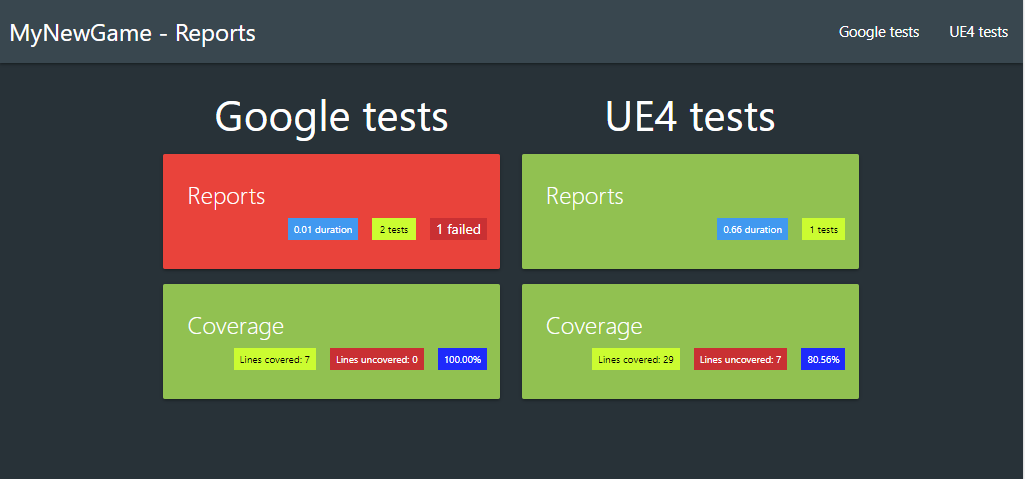
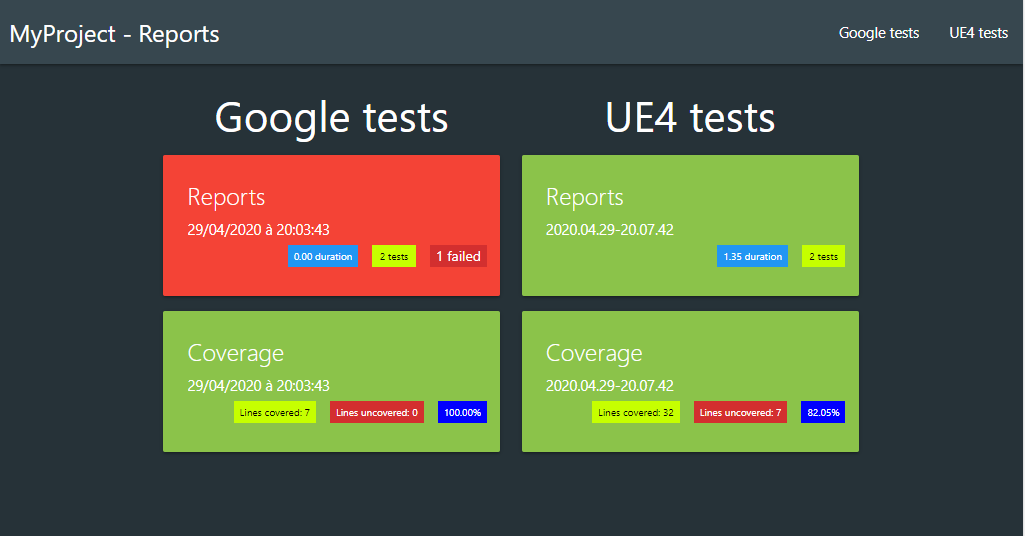
Improve style and docs

diff --git a/TestsReports/index.html b/TestsReports/index.html
@@ -40,6 +40,9 @@
             color: white;
             background-color: #2196f3;
         }
+        .createdAt {
+            margin-bottom: 5px !important;
+        }
 
     </style>
     <!--Let browser know website is optimized for mobile-->
@@ -172,7 +175,7 @@
                         $(`.${proj} .card.reports .badge.${field}`).addClass("hide");
                     }
                 }
-                if (data[proj]['createdAt']) {
+                if (data[proj] && data[proj]['createdAt']) {
                     let date = proj === 'gg' ? new Date(data[proj]['createdAt']).toLocaleString() : data[proj]['createdAt'];
                     $(`.${proj} .card.reports .createdAt`).removeClass("hide").text(date);
                 }

diff --git a/TestsReports/build-gg-reports.js b/TestsReports/build-gg-reports.js
@@ -16,7 +16,7 @@ const xunitViewer = require("xunit-viewer");
 const fs = require("fs");
 const path = require("path");
 const chalk = require("chalk");
-var parser = require("xml2json");
+const parser = require("xml2json");
 let globalReport = require("./get-global-report");
 
 const directory = "./reports/gg";

diff --git a/TestsReports/build-coverage.js b/TestsReports/build-coverage.js
@@ -13,9 +13,8 @@
 // limitations under the License.
 
 const fs = require("fs");
-const path = require("path");
 const chalk = require("chalk");
-var parser = require("xml2json");
+const parser = require("xml2json");
 const directory = "./coverage/";
 const globalReportFile = "./reports/global-reports.json";
 

diff --git a/TestsReports/build-ue4-reports.js b/TestsReports/build-ue4-reports.js
@@ -13,7 +13,6 @@
 // limitations under the License.
 
 const fs = require("fs");
-const path = require("path");
 const chalk = require("chalk");
 const directory = "./reports/ue4";
 let globalReport = require("./get-global-report");

diff --git a/README.md b/README.md
@@ -1,17 +1,49 @@
 # UE4 template for c++ project with test environment
 
-Launch your tests and code coverage with just **1** commandline and get nice reports!
+Launch your tests and code coverage with just **1** commandline + get nice reports!
 
-> /!\ For now it works only on Window
+> /!\ For now it works only on **Window**
 
 ![Dashboard](./Docs/dashboard.png)
 
-## Why?
+<!-- TOC -->
+
+-   [1. Why?](#1-why)
+-   [2. Requirements](#2-requirements)
+-   [3. Step by step guide](#3-step-by-step-guide)
+    -   [3.1. Clone to a specific dir](#31-clone-to-a-specific-dir)
+    -   [3.2. Rename the project files](#32-rename-the-project-files)
+    -   [3.3. Get submodules](#33-get-submodules)
+    -   [3.4. Test](#34-test)
+        -   [3.4.1. Filter for UE4 build](#341-filter-for-ue4-build)
+        -   [3.4.2. Filters for GG build](#342-filters-for-gg-build)
+    -   [3.5. Coverage](#35-coverage)
+    -   [3.6. Go to your Dashboard](#36-go-to-your-dashboard)
+    -   [3.7. Reinstall git + git modules on your new git repository](#37-reinstall-git--git-modules-on-your-new-git-repository)
+    -   [3.8. Shutdown server](#38-shutdown-server)
+-   [4. Debug](#4-debug)
+    -   [4.1. In VScode](#41-in-vscode)
+    -   [4.2. VS (Visual Studio)](#42-vs-visual-studio)
+-   [5. Formatting](#5-formatting)
+    -   [5.1. VS Code](#51-vs-code)
+    -   [5.2. VS](#52-vs)
+-   [6. Scripts](#6-scripts)
+-   [7. What does it look like?](#7-what-does-it-look-like)
+    -   [7.1. Google Test App reports](#71-google-test-app-reports)
+    -   [7.2. Google Test App Coverage](#72-google-test-app-coverage)
+    -   [7.3. UE4 reports](#73-ue4-reports)
+    -   [7.4. UE4 Coverage](#74-ue4-coverage)
+
+<!-- /TOC -->
+
+<a id="markdown-1-why" name="1-why"></a>
+
+## 1. Why?
 
 My first needs were:
 
 -   improve my process of **proof concepting**
--   try to reduce the **UE4 build** duration
+-   try to reduce the **UE4 tests build** duration
 -   ensure quality to avoid regressions by **running tests frequently**
 
 Then after reading this great serie of articles, testing and guiding by its author @[ericlemes](https://github.com/ericlemes):
@@ -22,7 +54,9 @@ Then after reading this great serie of articles, testing and guiding by its auth
 
 this project came to life!
 
-## Requirements
+<a id="markdown-2-requirements" name="2-requirements"></a>
+
+## 2. Requirements
 
 -   [PowerShell](https://docs.microsoft.com/en-us/powershell/)
 -   [Unreal Engine](https://github.com/EpicGames/UnrealEngine)
@@ -31,7 +65,13 @@ this project came to life!
 -   [NodeJs](https://nodejs.org/en/download/)
 -   [Pm2](https://pm2.keymetrics.io/)
 
-## 1 - Clone to a specific dir
+<a id="markdown-3-step-by-step-guide" name="3-step-by-step-guide"></a>
+
+## 3. Step by step guide
+
+<a id="markdown-31-clone-to-a-specific-dir" name="31-clone-to-a-specific-dir"></a>
+
+### 3.1. Clone to a specific dir
 
 ```powershell
 git clone git@github.com:NansPellicari/UE4-TPL-CppWithTestEnv.git MyNewGame
@@ -39,7 +79,9 @@ git clone git@github.com:NansPellicari/UE4-TPL-CppWithTestEnv.git MyNewGame
 cd MyNewGame
 ```
 
-## 2 - Rename the project files
+<a id="markdown-32-rename-the-project-files" name="32-rename-the-project-files"></a>
+
+### 3.2. Rename the project files
 
 ```powershell
 .\ChangeProjectName.bat 'MyNewGame'
@@ -60,23 +102,28 @@ This will:
 -   changes all `MyProject` occurences in `./Source/`, `./Config/` and `./TestsReports/` directories.
 -   generate Project Files (for VS or VScode)
 
-## 3 - Get submodules
+<a id="markdown-33-get-submodules" name="33-get-submodules"></a>
 
-This repo embeds [UE4-GoogleTest](https://github.com/NansPellicari/UE4-GoogleTest) plugins which is a **UE4 plugin**, a simple adapter for the [googletest](https://github.com/google/googletest) project.
+### 3.3. Get submodules
+
+This repo embeds [UE4-GoogleTest](https://github.com/NansPellicari/UE4-GoogleTest) plugins which is a **UE4 plugin**, a simple bridge for the [googletest](https://github.com/google/googletest) project.
 
 ```powershell
 git sumbmodule init
 git submodule update --init --recursive
 ```
 
-## 4 - Test
+<a id="markdown-34-test" name="34-test"></a>
+
+### 3.4. Test
 
 Run all tests to check if all is well configure.
 
 ```powershell
 .\RunTests.bat -b gg
+# this one failed intentionally
 .\RunTests.bat -b ue4 MyNewGame
-# last parameter is recommended for this one (see section 4a),
+# last parameter is recommended for this one (see section 3.4.1.),
 # otherwise it launches every UE4 tests
 ```
 
@@ -87,7 +134,9 @@ Run all tests to check if all is well configure.
 
 For the both builds (`ue4` or `gg`), you can filter **tests** to run.
 
-### 4a - Filter for UE4 build
+<a id="markdown-341-filter-for-ue4-build" name="341-filter-for-ue4-build"></a>
+
+#### 3.4.1. Filter for UE4 build
 
 For this build is really important to filter, otherwise it will run all Unreal Engine's tests, which is A LOT!  
 You can add any filters you need as if:
@@ -98,7 +147,9 @@ You can add any filters you need as if:
 
 > this will call `UE4Editor-Cmd.exe` with this parameter `-ExecCmds="Automation RunTests MyNewGame+MyPlugin.Core; quit"`
 
-### 4b - Filters for GG build
+<a id="markdown-342-filters-for-gg-build" name="342-filters-for-gg-build"></a>
+
+#### 3.4.2. Filters for GG build
 
 Use params as [google test](https://github.com/google/googletest/blob/master/googletest/docs/advanced.md#selecting-tests) defined.
 
@@ -108,7 +159,9 @@ Use params as [google test](https://github.com/google/googletest/blob/master/goo
 
 > to list test names: `.\RunTests.bat -b gg --gtest_list_tests`
 
-## 5 - Coverage
+<a id="markdown-35-coverage" name="35-coverage"></a>
+
+### 3.5. Coverage
 
 Just add `-c` option:
 
@@ -117,7 +170,19 @@ Just add `-c` option:
 .\RunTests.bat -c -b ue4 MyNewGame
 ```
 
-## 6 - Reinstall git + git modules on your new git repository
+<a id="markdown-36-go-to-your-dashboard" name="36-go-to-your-dashboard"></a>
+
+### 3.6. Go to your Dashboard
+
+I use [node](https://nodejs.org/en/download/) and [pm2](https://pm2.keymetrics.io/) to create a simple server which display all tests reports and coverages in one **dashboard**.  
+Find it at `http://localhost:9999/` to see last results in a glimpse.  
+Each block is a link to the more detailed reports page (see section **What does it look like?** below).
+
+![Dashboard](./Docs/dashboard.png)
+
+<a id="markdown-37-reinstall-git--git-modules-on-your-new-git-repository" name="37-reinstall-git--git-modules-on-your-new-git-repository"></a>
+
+### 3.7. Reinstall git + git modules on your new git repository
 
 ```powershell
 rd .\git\
@@ -139,9 +204,28 @@ git config master.remote origin
 git config master.merge refs/heads/master
 ```
 
-## 7 - Debug
+<a id="markdown-38-shutdown-server" name="38-shutdown-server"></a>
 
-### 7a - In VScode
+### 3.8. Shutdown server
+
+Don't forget to shutdown server when you don't use it or if you switch to other project.
+
+```bash
+cd TestsReports/
+npm run server:stop
+# or to ensure to kill every server
+npm run server:clean
+# or
+pm2 delete all
+```
+
+<a id="markdown-4-debug" name="4-debug"></a>
+
+## 4. Debug
+
+<a id="markdown-41-in-vscode" name="41-in-vscode"></a>
+
+### 4.1. In VScode
 
 First add a build conf in `.vscode/tasks.json`:
 
@@ -165,7 +249,7 @@ First add a build conf in `.vscode/tasks.json`:
 }
 ```
 
-and a debug config in your `.vscode/launch.js`:
+and debug configs in your `.vscode/launch.js`:
 
 ```json
 {
@@ -211,30 +295,65 @@ and a debug config in your `.vscode/launch.js`:
 }
 ```
 
-## 8 - Go to your Dashboard
+<a id="markdown-42-vs-visual-studio" name="42-vs-visual-studio"></a>
 
-I use [node](https://nodejs.org/en/download/) and [pm2](https://pm2.keymetrics.io/) to create a simple server which display all tests reports and coverages in one **dashboard**.  
-Find it at `http://localhost:9999/` to see last results in a glimpse.  
-Each block is a link to the more detailed reports page (see section **What does it look like?** below).
+### 4.2. VS (Visual Studio)
 
-![Dashboard](./Docs/dashboard.png)
+WIP
 
-## 9 - Shutdown server
+<a id="markdown-5-formatting" name="5-formatting"></a>
 
-Don't forget to shutdown server when you don't use it or if you switch to other project.
+## 5. Formatting
 
-```bash
-cd TestsReports/
-npm run server:stop
-# or to ensure to kill every server
-npm run server:clean
-# or
-pm2 delete all
+<a id="markdown-51-vs-code" name="51-vs-code"></a>
+
+### 5.1. VS Code
+
+To format on save and during edition, add this in your `.vscode/settings.json`:
+
+```json
+{
+	"editor.formatOnSave": true,
+	"editor.formatOnType": true
+}
 ```
 
-## What does it look like?
+To make the formatter (I use [prettier](https://github.com/prettier/prettier-vscode)) recognize the json format for `.uproject` and `.plugin` files (but It should be placed on the **user** or **workspace** `settings.json`, see [this](https://github.com/prettier/prettier-vscode/issues/606#issuecomment-578085675)):
 
-### Google Test App reports
+```json
+{
+	"files.associations": {
+		"_.uproject": "json",
+		"_.uplugin": "json"
+	}
+}
+```
+
+<a id="markdown-52-vs" name="52-vs"></a>
+
+### 5.2. VS
+
+WIP
+
+<a id="markdown-6-scripts" name="6-scripts"></a>
+
+## 6. Other scripts
+
+A bunch of scripts can be used to helps you during your development session:
+
+| Script                       | Usage                                                                                                                                                                                                                  |
+| :--------------------------- | ---------------------------------------------------------------------------------------------------------------------------------------------------------------------------------------------------------------------- |
+| `.\GeneratePlugins.bat`      | copies files from the c++ Blank Project template in the Unreal Engine directory and rename it                                                                                                                          |
+| `.\Clean.bat`                | Removes all generated files and folder                                                                                                                                                                                 |
+| `.\GenerateProjectFiles.bat` | Uses `<ue4 rootpath>Engine\Binaries\DotNET\UnrealBuildTool.exe` to generate VS or VSCode files from the .uproject file + download npm dependencies in the TestsReports folder + clean and start nodejs report's server |
+
+<a id="markdown-7-what-does-it-look-like" name="7-what-does-it-look-like"></a>
+
+## 7. What does it look like?
+
+<a id="markdown-71-google-test-app-reports" name="71-google-test-app-reports"></a>
+
+### 7.1. Google Test App reports
 
 I choose to use [Xunit viewer](https://www.npmjs.com/package/xunit-viewer) 'cause (at the age of this repo creation):
 
@@ -243,15 +362,21 @@ I choose to use [Xunit viewer](https://www.npmjs.com/package/xunit-viewer) 'caus
 
 ![Xunit viewer](./Docs/dashboard-gg-xunit-viewer.png)
 
-### Google Test App Coverage
+<a id="markdown-72-google-test-app-coverage" name="72-google-test-app-coverage"></a>
+
+### 7.2. Google Test App Coverage
 
 ![OpenCppCoverage view](./Docs/dashboard-gg-open-cpp-coverage.png)
 
-### UE4 reports
+<a id="markdown-73-ue4-reports" name="73-ue4-reports"></a>
+
+### 7.3. UE4 reports
 
 ![Junit viewer](./Docs/dashboard-ue4-junit.png)
 
-### UE4 Coverage
+<a id="markdown-74-ue4-coverage" name="74-ue4-coverage"></a>
+
+### 7.4. UE4 Coverage
 
 ![OpenCppCoverage view](./Docs/dashboard-ue4-open-cpp-coverage.png)
 
